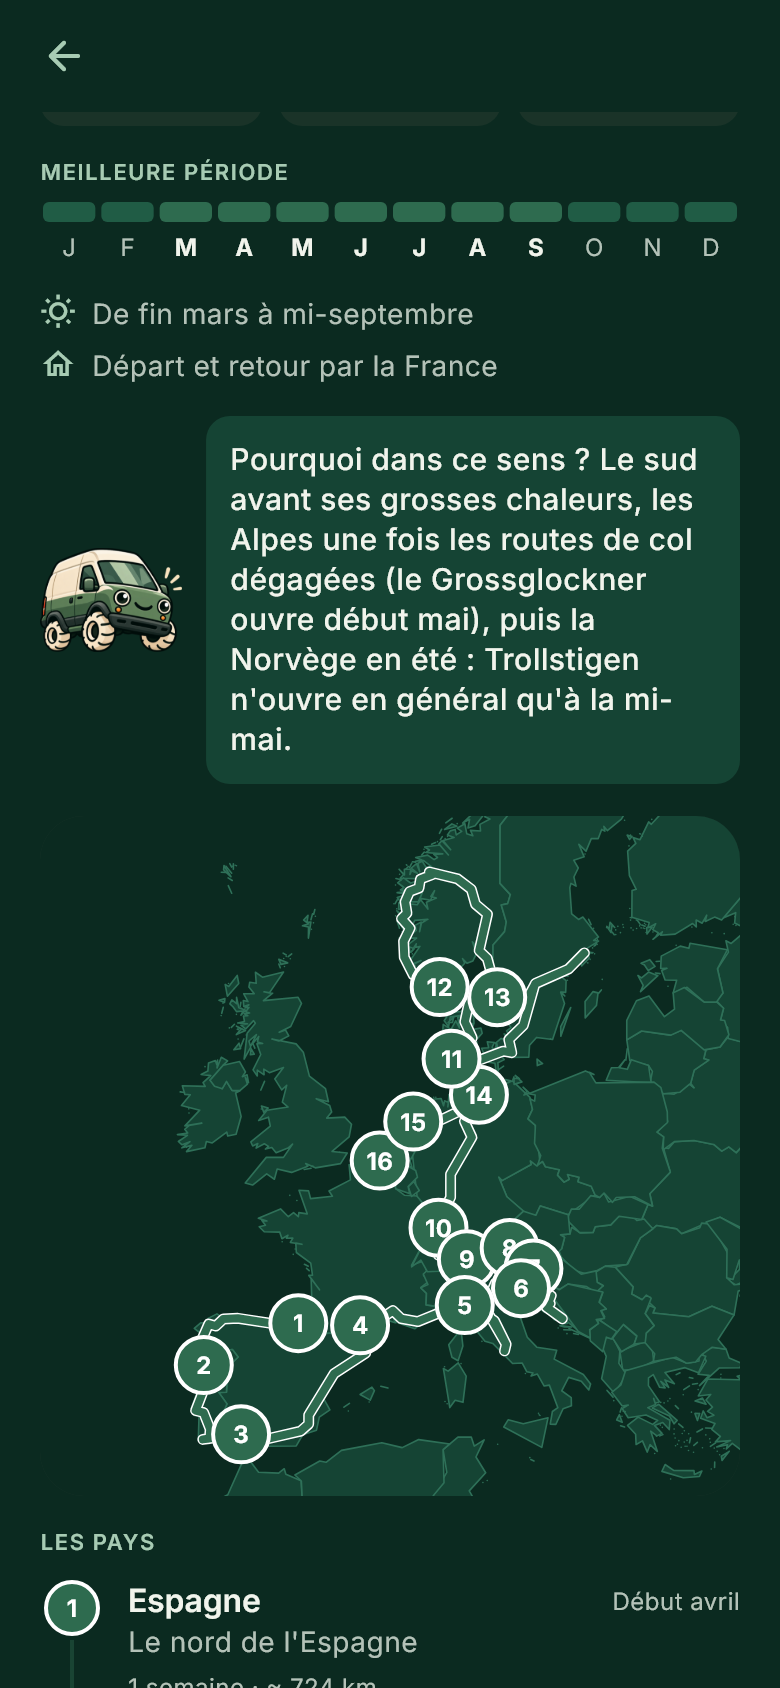
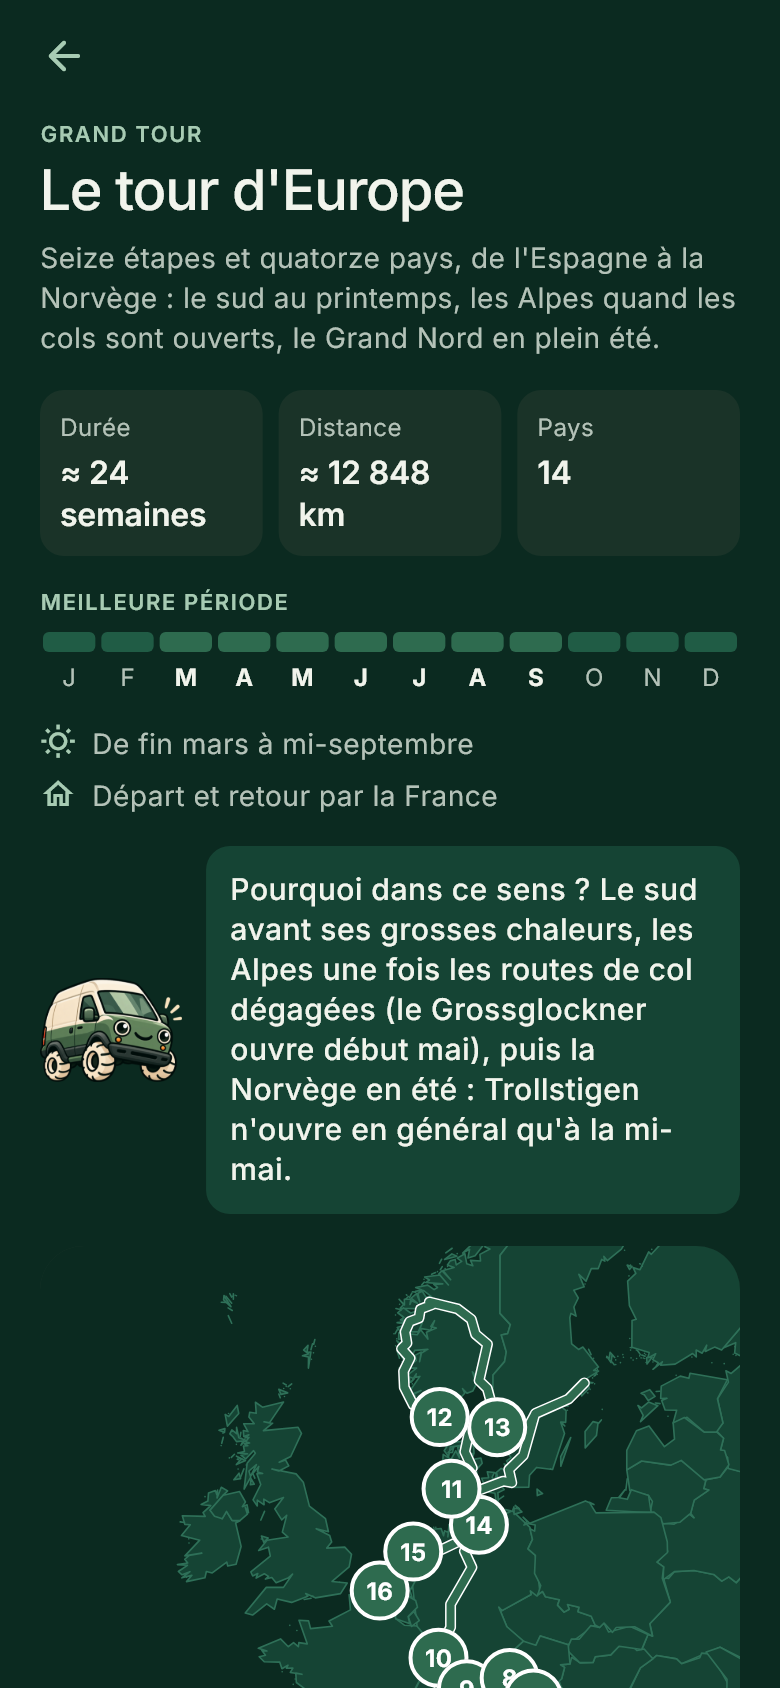
Deux captures par étape : le haut de chaque page et sa suite
Chaque étape montre maintenant deux téléphones côte à côte, le second
un peu plus bas, pour voir les pages en entier (demande de Levi) :
Trouver mon van jusqu'au bouton « Chiffrer l'aménagement de ce van »,
les cinq chantiers et la liste de courses, toutes les phases du
chantier, la carte et la première étape du tour d'Europe, le carnet
d'entretien, qui doit quoi et les dernières dépenses. Les captures du
haut sont refaites avec l app du jour (prix des vans en fourchette).

diff --git a/index.html b/index.html
@@ -173,7 +173,7 @@ section { padding-block: 5rem; }
 
 /* La route : chaque étape est un arrêt, reliés par des pointillés. */
 .road { margin-top: 3rem; position: relative; }
-.stop { display: grid; grid-template-columns: 3.5rem minmax(0, 1fr) minmax(0, 17rem); gap: 0 2.5rem; align-items: center; position: relative; padding-bottom: 4rem; }
+.stop { display: grid; grid-template-columns: 3.5rem minmax(0, 1fr) minmax(0, 25rem); gap: 0 2.5rem; align-items: center; position: relative; padding-bottom: 4rem; }
 .stop:last-child { padding-bottom: 0; }
 .stop::before {
   content: ""; position: absolute; left: 1.75rem; top: 3.5rem; bottom: 0;
@@ -198,6 +198,10 @@ section { padding-block: 5rem; }
 .stop .phone { justify-self: center; max-width: 16rem; }
 .stop:nth-child(even) .phone { transform: rotate(2deg); }
 .stop:nth-child(odd) .phone { transform: rotate(-2deg); }
+.shots { justify-self: center; display: grid; grid-template-columns: repeat(2, minmax(0, 1fr)); gap: 1rem; width: 100%; max-width: 25rem; align-items: start; }
+.stop .shots .phone { grid-column: auto; max-width: none; margin: 0; justify-self: stretch; border-width: 6px; border-radius: 28px; }
+.stop .shots .phone:first-child { transform: rotate(-2deg); }
+.stop .shots .phone:last-child { transform: rotate(2deg); margin-top: 3rem; }
 .quote {
   background: var(--surface); border: 1px solid var(--line); border-radius: 16px;
   padding: .85rem 1.05rem; margin-top: 1.2rem; max-width: 36rem; font-size: .95rem;
@@ -296,6 +300,9 @@ footer .legal b { color: var(--ink); font-weight: 600; }
   .stop .marker { width: 2.8rem; height: 2.8rem; font-size: 1.3rem; }
   .stop::before { left: 1.4rem; top: 2.8rem; }
   .stop .phone { grid-column: 2; margin-top: 1.8rem; max-width: 14rem; justify-self: start; }
+  .shots { grid-column: 2; margin-top: 1.8rem; max-width: 24rem; justify-self: start; gap: .7rem; }
+  .stop .shots .phone { border-width: 5px; border-radius: 22px; }
+  .stop .shots .phone:last-child { margin-top: 2rem; }
   .gaston { grid-template-columns: minmax(0, 1fr); }
   .gaston img { max-width: 11rem; }
   .promises, .offers { grid-template-columns: minmax(0, 1fr); }
@@ -392,7 +399,10 @@ footer .legal b { color: var(--ink); font-weight: 600; }
               <li><span>Un modèle te plaît ? « Chiffrer l'aménagement de ce van » : le chiffrage s'ouvre pour lui, sans rien te redemander.</span></li>
             </ul>
           </div>
-          <img class="phone" src="img/trouver.png" width="780" height="1688" loading="lazy" alt="Les modèles et leur fiabilité : filtres par prix, taille et fiabilité, puis la fiche du Renault Kangoo Express Maxi, environ 9 250 €.">
+          <div class="shots">
+            <img class="phone" src="img/trouver.png" width="780" height="1688" loading="lazy" alt="Les modèles et leur fiabilité : filtres par prix, taille et fiabilité, puis la fiche du Renault Kangoo Express Maxi, de 7 500 € à 11 000 €.">
+            <img class="phone" src="img/trouver_2.png" width="780" height="1688" loading="lazy" alt="La suite de la fiche : rappels officiels, contrôles à l'achat, sources, liens d'annonces et « Chiffrer l'aménagement de ce van », puis le Fiat Doblo Cargo Maxi.">
+          </div>
         </article>
 
         <article class="stop reveal">
@@ -410,7 +420,10 @@ footer .legal b { color: var(--ink); font-weight: 600; }
             </ul>
             <div class="quote"><b>Mousse élastomère 19 mm : 5 rouleaux de 4 m²</b><span>16,5 m² avec 10 % de chutes, pour les parois d'un Fiat Ducato L2H2</span></div>
           </div>
-          <img class="phone" src="img/projet.png" width="780" height="1688" loading="lazy" alt="Chiffrer un aménagement : environ 2 200 € estimés, la carte « Mes chiffrages » pour enregistrer et comparer, 42 à 70 heures de chantier, 153 kg ajoutés.">
+          <div class="shots">
+            <img class="phone" src="img/projet.png" width="780" height="1688" loading="lazy" alt="Chiffrer un aménagement : environ 2 200 € estimés, la carte « Mes chiffrages » pour enregistrer et comparer, 42 à 70 heures de chantier, 153 kg ajoutés.">
+            <img class="phone" src="img/projet_2.png" width="780" height="1688" loading="lazy" alt="La suite du chiffrage : les cinq chantiers, l'isolation chiffrée et les autres à commencer, Vie à bord et la liste de courses de 18 articles.">
+          </div>
         </article>
 
         <article class="stop reveal">
@@ -426,7 +439,10 @@ footer .legal b { color: var(--ink); font-weight: 600; }
               <li><span>Le passage en VASP expliqué, avec ses avantages et ses inconvénients.</span></li>
             </ul>
           </div>
-          <img class="phone" src="img/construire.png" width="780" height="1688" loading="lazy" alt="Construire mon van : l'avancement du chantier, la prochaine fiche à suivre, et les phases dans l'ordre : préparer le van, percer la carrosserie, isoler…">
+          <div class="shots">
+            <img class="phone" src="img/construire.png" width="780" height="1688" loading="lazy" alt="Construire mon van : l'avancement du chantier, la prochaine fiche à suivre, et les phases dans l'ordre : préparer le van, percer la carrosserie, isoler…">
+            <img class="phone" src="img/construire_2.png" width="780" height="1688" loading="lazy" alt="La suite des phases : percer la carrosserie, isoler, avant de fermer, habiller, les meubles, l'électricité, l'eau, le chauffage et l'homologation VASP.">
+          </div>
         </article>
 
         <article class="stop reveal">
@@ -443,7 +459,10 @@ footer .legal b { color: var(--ink); font-weight: 600; }
               <li><span>Une carte épurée qui marche sans réseau.</span></li>
             </ul>
           </div>
-          <img class="phone" src="img/tour_europe.png" width="780" height="1688" loading="lazy" alt="Le tour d'Europe dans l'app : la meilleure période, de fin mars à mi-septembre, Gaston qui explique pourquoi le tour part du sud, et la carte des seize étapes, de l'Espagne à la Norvège.">
+          <div class="shots">
+            <img class="phone" src="img/tour_europe.png" width="780" height="1688" loading="lazy" alt="Le tour d'Europe dans l'app : la meilleure période, de fin mars à mi-septembre, Gaston qui explique pourquoi le tour part du sud, et la carte des seize étapes, de l'Espagne à la Norvège.">
+            <img class="phone" src="img/tour_europe_2.png" width="780" height="1688" loading="lazy" alt="La carte des seize étapes et la première, l'Espagne, avec le conseil de Gaston sur la bouteille de gaz avant la frontière.">
+          </div>
         </article>
 
         <article class="stop reveal">
@@ -459,7 +478,10 @@ footer .legal b { color: var(--ink); font-weight: 600; }
               <li><span>Sur Android, un widget sur ton écran d'accueil : « plein » ou « vide » d'un toucher, sans ouvrir l'app.</span></li>
             </ul>
           </div>
-          <img class="phone" src="img/monvan.png" width="780" height="1688" loading="lazy" alt="Mon van : le van dessiné en ton vert, une pastille par zone (toit, cellule, papiers et moteur à jour, roues en retard), la légende des couleurs et le compteur à 128 000 km.">
+          <div class="shots">
+            <img class="phone" src="img/monvan.png" width="780" height="1688" loading="lazy" alt="Mon van : le van dessiné en ton vert, une pastille par zone (toit, cellule, papiers et moteur à jour, roues en retard), la légende des couleurs et le compteur à 128 000 km.">
+            <img class="phone" src="img/monvan_2.png" width="780" height="1688" loading="lazy" alt="La suite de Mon van : les douze prochains mois en pastilles, les rappels, et la pression des pneus en retard, à valider d'un « Fait aujourd'hui ».">
+          </div>
         </article>
 
         <article class="stop reveal" id="comptes">
@@ -476,7 +498,10 @@ footer .legal b { color: var(--ink); font-weight: 600; }
             </ul>
             <div class="quote"><b>Léa → Toi : 24,45 €</b><span>Un plein, une aire, des courses et un péage à deux : un seul virement pour être quittes</span></div>
           </div>
-          <img class="phone" src="img/journal.png" width="780" height="1688" loading="lazy" alt="Le Journal : 646 € en octobre, une barre partagée entre aménagement, réparations et dépenses communes, puis « Qui doit quoi » : Léa doit 24,45 € pour être quittes.">
+          <div class="shots">
+            <img class="phone" src="img/journal.png" width="780" height="1688" loading="lazy" alt="Le Journal : 646 € en octobre, une barre partagée entre aménagement, réparations et dépenses communes, puis « Qui doit quoi » : Léa doit 24,45 € pour être quittes.">
+            <img class="phone" src="img/journal_2.png" width="780" height="1688" loading="lazy" alt="La suite du Journal : qui doit quoi, Léa doit 24,45 € pour être quittes, puis les dernières dépenses à deux.">
+          </div>
         </article>
       </div>
     </div>
